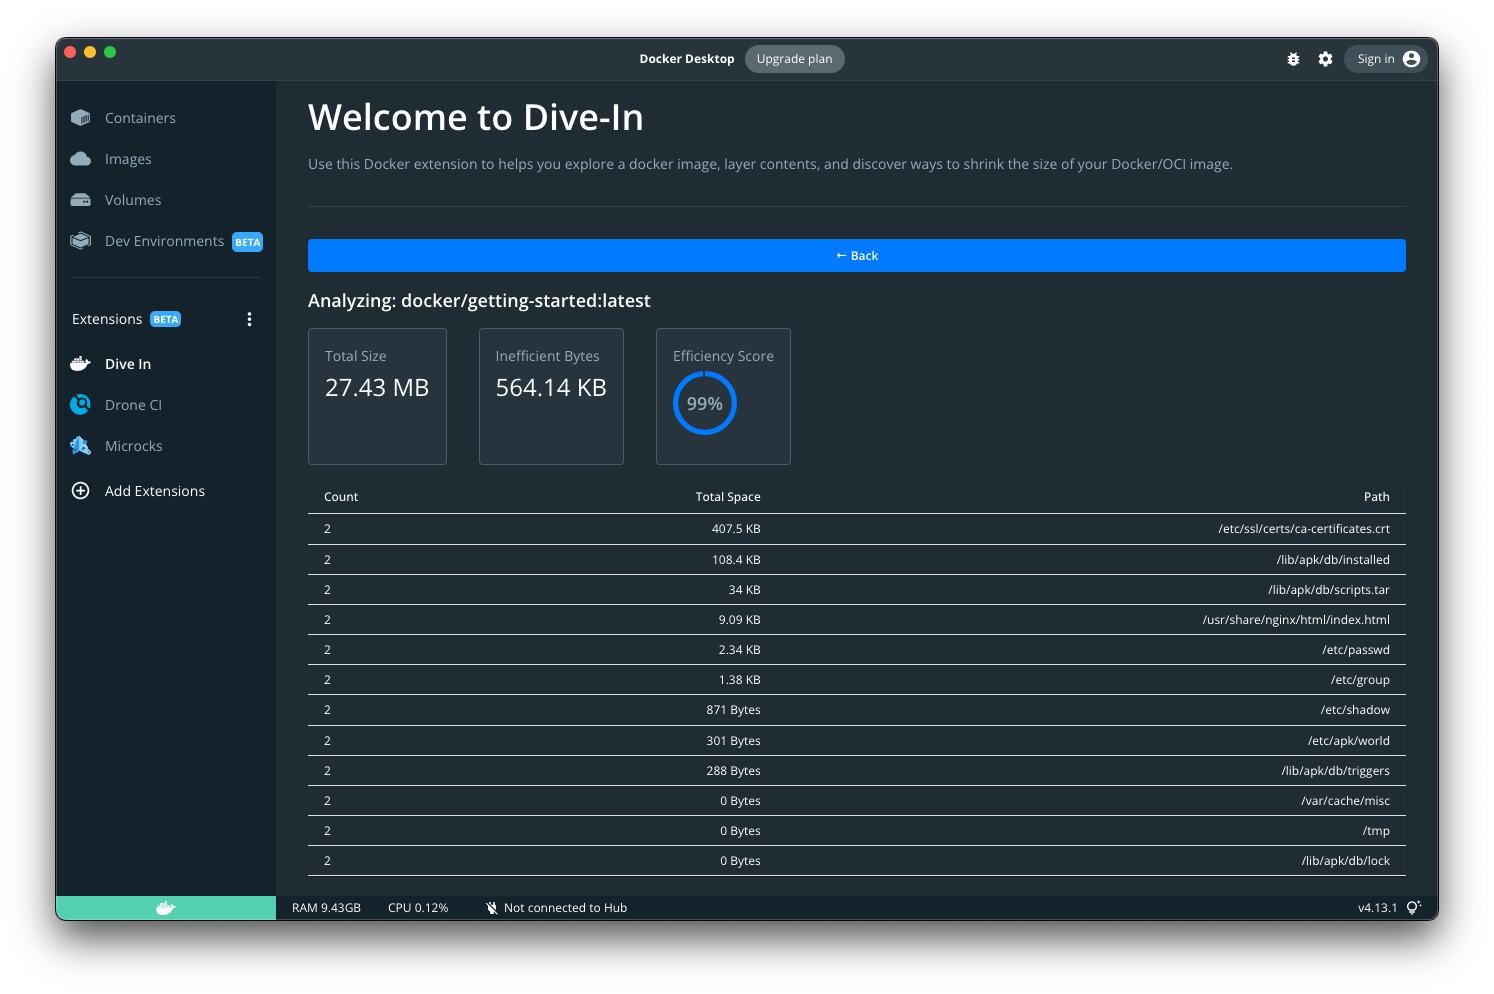
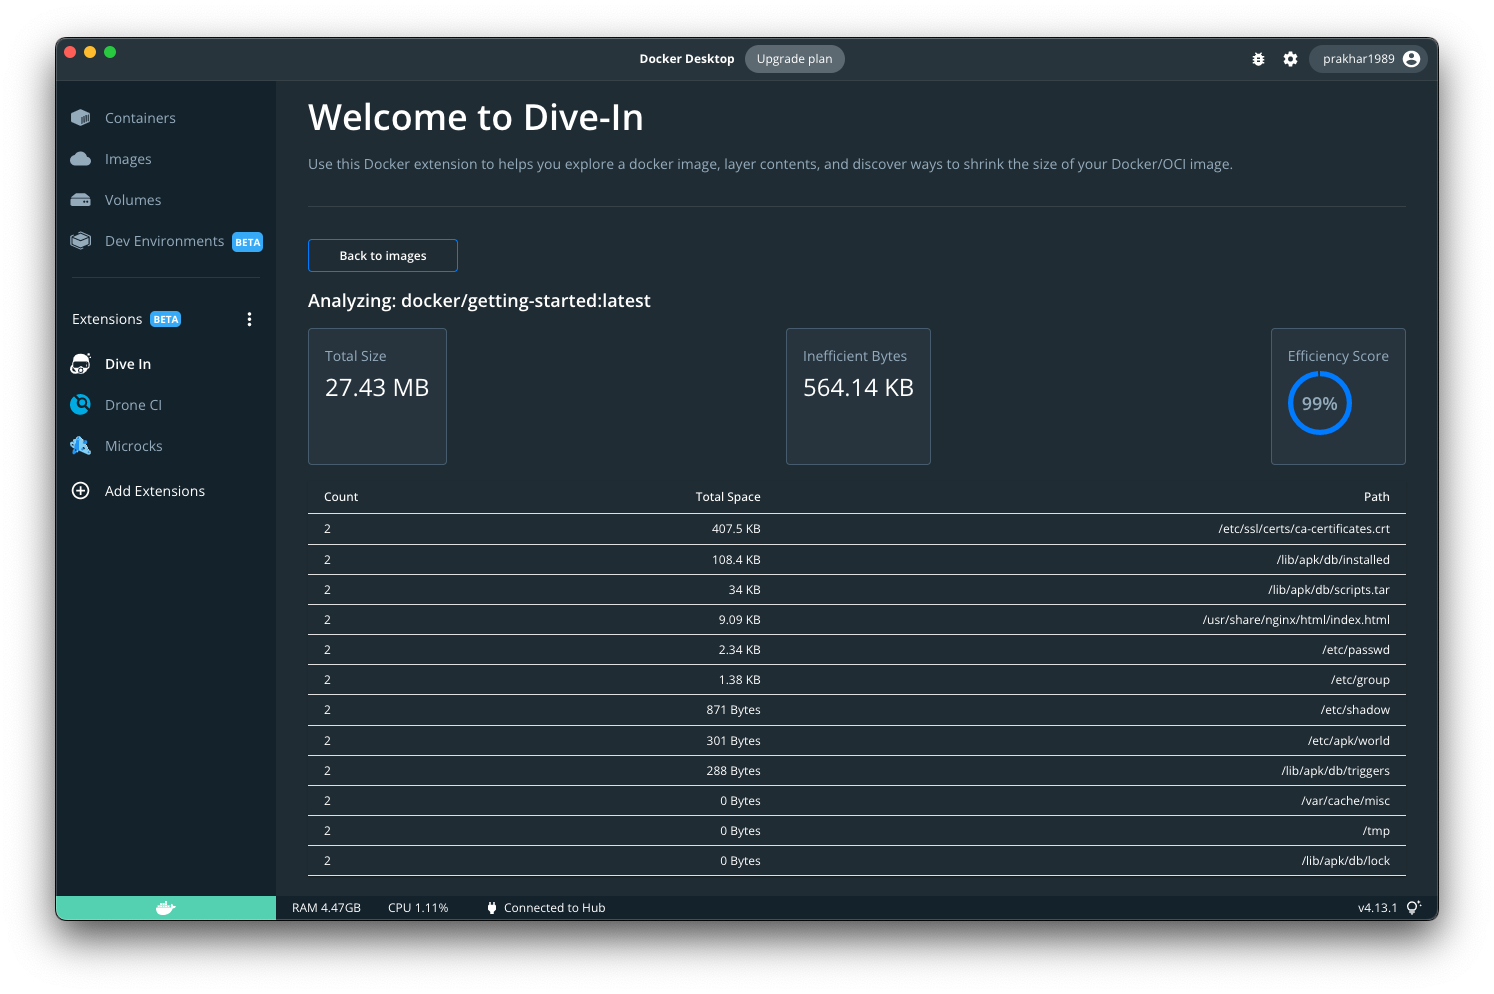
clean up the UI and refactor analysis component

diff --git a/ui/src/App.tsx b/ui/src/App.tsx
@@ -13,10 +13,9 @@ import {
   CardContent,
 } from "@mui/material";
 
+import Analysis from './analysis';
 import { formatBytes, extractId } from "./utils";
-import CircularProgressWithLabel from "./ring";
 import { DiveResponse, Image, AnalysisResult } from "./models";
-import ImageTable from "./imagetable";
 
 interface DockerImage {
   Labels: string[] | null;
@@ -62,7 +61,6 @@ export function App() {
 
   const getImages = async () => {
     const all = await readImages();
-    console.log(all);
     const images = all
       .filter((i) => i.RepoTags[0] !== "<none>:<none>")
       .map((i) => ({ name: i.RepoTags[0], id: extractId(i.Id) }));
@@ -87,6 +85,45 @@ export function App() {
     setAnalysisResult({ image, dive });
   };
 
+  const queryImageSize = async (id: string) => {
+    const result = await ddClient.docker.cli.exec("image", [
+      "inspect",
+      id,
+      "--format='{{.Size}}'"
+    ]);
+    return formatBytes(Number(result.stdout));
+  }
+
+  function ImageCard(props: { image: Image }) {
+    return (
+      <>
+        <Card sx={{ maxWidth: 200 }} variant="outlined">
+          <CardContent>
+            <Typography
+              sx={{ fontSize: 14 }}
+              color="text.secondary"
+              gutterBottom
+            >
+              {props.image.id}
+            </Typography>
+            <Typography variant="body1" component="div">
+              {props.image.name}
+            </Typography>
+          </CardContent>
+          <CardActions>
+            <Button
+              size="small"
+              variant="outlined"
+              onClick={() => analyze(props.image)}
+            >
+              Analyze
+            </Button>
+          </CardActions>
+        </Card>
+      </>
+    );
+  }
+
   const ImageList = () => (
     <>
       <Typography variant="h3" sx={{ mb: 2 }}>
@@ -95,29 +132,7 @@ export function App() {
       <Grid container spacing={2}>
         {images.map((image, i) => (
           <Grid item xs key={i}>
-            <Card sx={{ maxWidth: 200 }} variant="outlined">
-              <CardContent>
-                <Typography
-                  sx={{ fontSize: 14 }}
-                  color="text.secondary"
-                  gutterBottom
-                >
-                  {image.id}
-                </Typography>
-                <Typography variant="body1" component="div">
-                  {image.name}
-                </Typography>
-              </CardContent>
-              <CardActions>
-                <Button
-                  size="small"
-                  variant="outlined"
-                  onClick={() => analyze(image)}
-                >
-                  Analyze
-                </Button>
-              </CardActions>
-            </Card>
+            <ImageCard image={image}></ImageCard>
           </Grid>
         ))}
       </Grid>
@@ -135,64 +150,14 @@ export function App() {
     </Stack>
   );
 
-  const Analysis = () => (
-    <Stack direction="column" spacing={2} align-items="baseline">
-      <Button variant="contained" onClick={() => setAnalysisResult(undefined)}>
-        ← Back
-      </Button>
-      <Typography variant="h3">Analyzing: {analysis.image.name}</Typography>
-      <Stack direction="row" spacing={4}>
-        <Card variant="outlined">
-          <CardContent>
-            <Typography
-              sx={{ fontSize: 14 }}
-              color="text.secondary"
-              gutterBottom
-            >
-              Total Size
-            </Typography>
-            <Typography variant="h2">
-              {formatBytes(analysis.dive.image.sizeBytes)}
-            </Typography>
-          </CardContent>
-        </Card>
-        <Card variant="outlined">
-          <CardContent>
-            <Typography
-              sx={{ fontSize: 14 }}
-              color="text.secondary"
-              gutterBottom
-            >
-              Inefficient Bytes
-            </Typography>
-            <Typography variant="h2">
-              {formatBytes(analysis.dive.image.inefficientBytes)}
-            </Typography>
-          </CardContent>
-        </Card>
-        <Card variant="outlined">
-          <CardContent>
-            <Typography
-              sx={{ fontSize: 14 }}
-              color="text.secondary"
-              gutterBottom
-            >
-              Efficiency Score
-            </Typography>
-            <CircularProgressWithLabel
-              value={analysis.dive.image.efficiencyScore * 100}
-            ></CircularProgressWithLabel>
-          </CardContent>
-        </Card>
-      </Stack>
-      <ImageTable rows={analysis.dive.image.fileReference}></ImageTable>
-    </Stack>
-  );
-
   useEffect(() => {
     checkDiveInstallation();
     getImages();
   }, []);
+
+  const clearAnalysis = () => {
+    setAnalysisResult(undefined);
+  }
 
   return (
     <>
@@ -205,7 +170,7 @@ export function App() {
       {!isHiveInstalled ? (
         <HiveInstaller></HiveInstaller>
       ) : analysis ? (
-        <Analysis></Analysis>
+        <Analysis onExit={clearAnalysis} analysis={analysis}></Analysis>
       ) : (
         <ImageList></ImageList>
       )}

diff --git a/ui/src/analysis.tsx b/ui/src/analysis.tsx
@@ -1,0 +1,67 @@
+import { Button, Card, CardContent, Stack, Typography } from "@mui/material";
+import { AnalysisResult } from "./models";
+import { formatBytes } from "./utils";
+import CircularProgressWithLabel from "./ring";
+import ImageTable from "./imagetable";
+
+export default function Analysis(props: {
+  analysis: AnalysisResult;
+  onExit: () => any;
+}) {
+  const { image, dive } = props.analysis;
+  return (
+    <>
+      <Stack direction="column" spacing={2} align-items="baseline">
+        <Button sx={{maxWidth: 150}} variant="outlined" onClick={props.onExit}>
+          Back to images
+        </Button>
+        <Typography variant="h3">Analyzing: {image.name}</Typography>
+        <Stack direction="row" spacing={4} justifyContent="space-between">
+          <Card variant="outlined">
+            <CardContent>
+              <Typography
+                sx={{ fontSize: 14 }}
+                color="text.secondary"
+                gutterBottom
+              >
+                Total Size
+              </Typography>
+              <Typography variant="h2">
+                {formatBytes(dive.image.sizeBytes)}
+              </Typography>
+            </CardContent>
+          </Card>
+          <Card variant="outlined">
+            <CardContent>
+              <Typography
+                sx={{ fontSize: 14 }}
+                color="text.secondary"
+                gutterBottom
+              >
+                Inefficient Bytes
+              </Typography>
+              <Typography variant="h2">
+                {formatBytes(dive.image.inefficientBytes)}
+              </Typography>
+            </CardContent>
+          </Card>
+          <Card variant="outlined">
+            <CardContent>
+              <Typography
+                sx={{ fontSize: 14 }}
+                color="text.secondary"
+                gutterBottom
+              >
+                Efficiency Score
+              </Typography>
+              <CircularProgressWithLabel
+                value={dive.image.efficiencyScore * 100}
+              ></CircularProgressWithLabel>
+            </CardContent>
+          </Card>
+        </Stack>
+        <ImageTable rows={dive.image.fileReference}></ImageTable>
+      </Stack>
+    </>
+  );
+}
